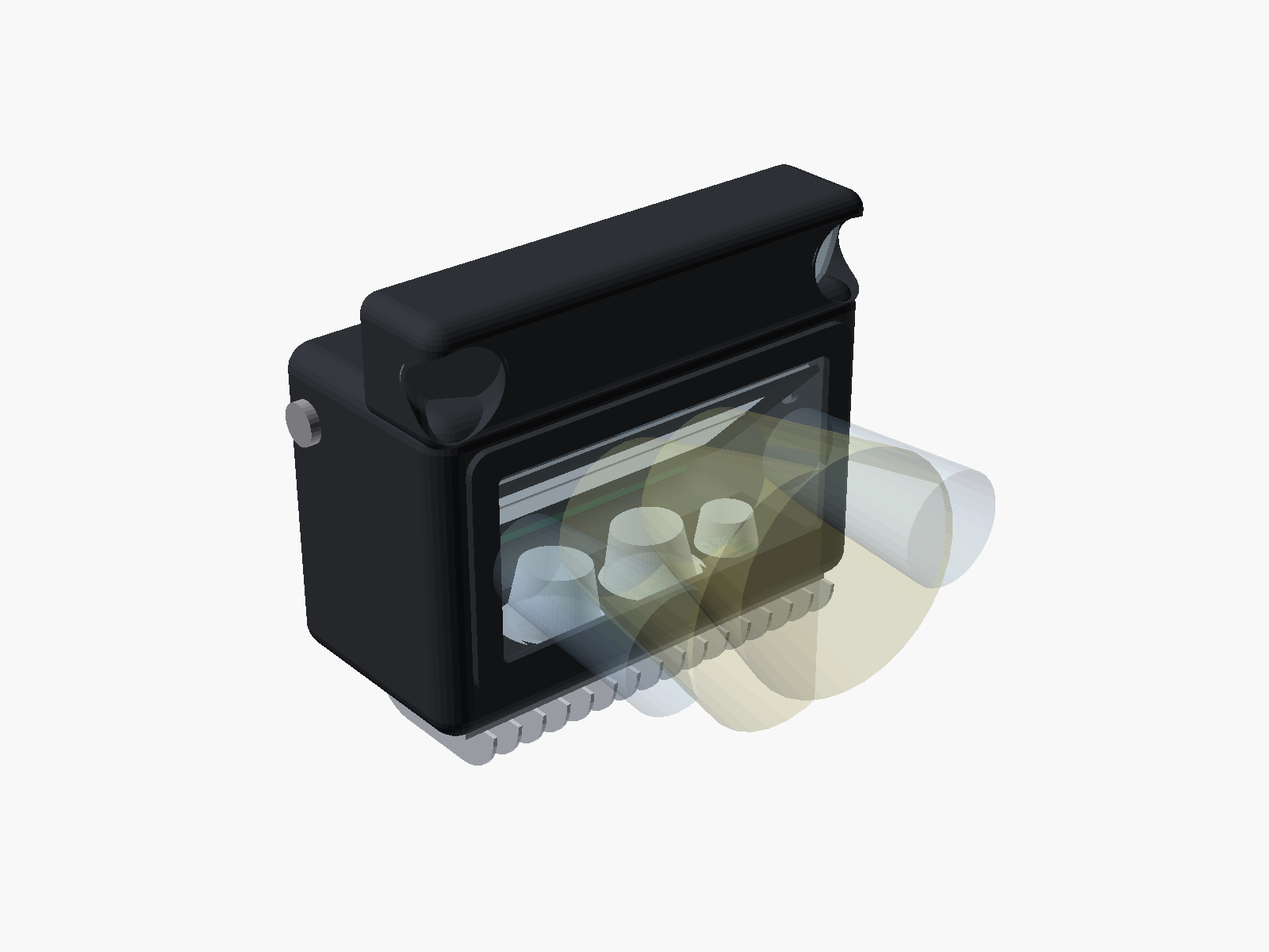
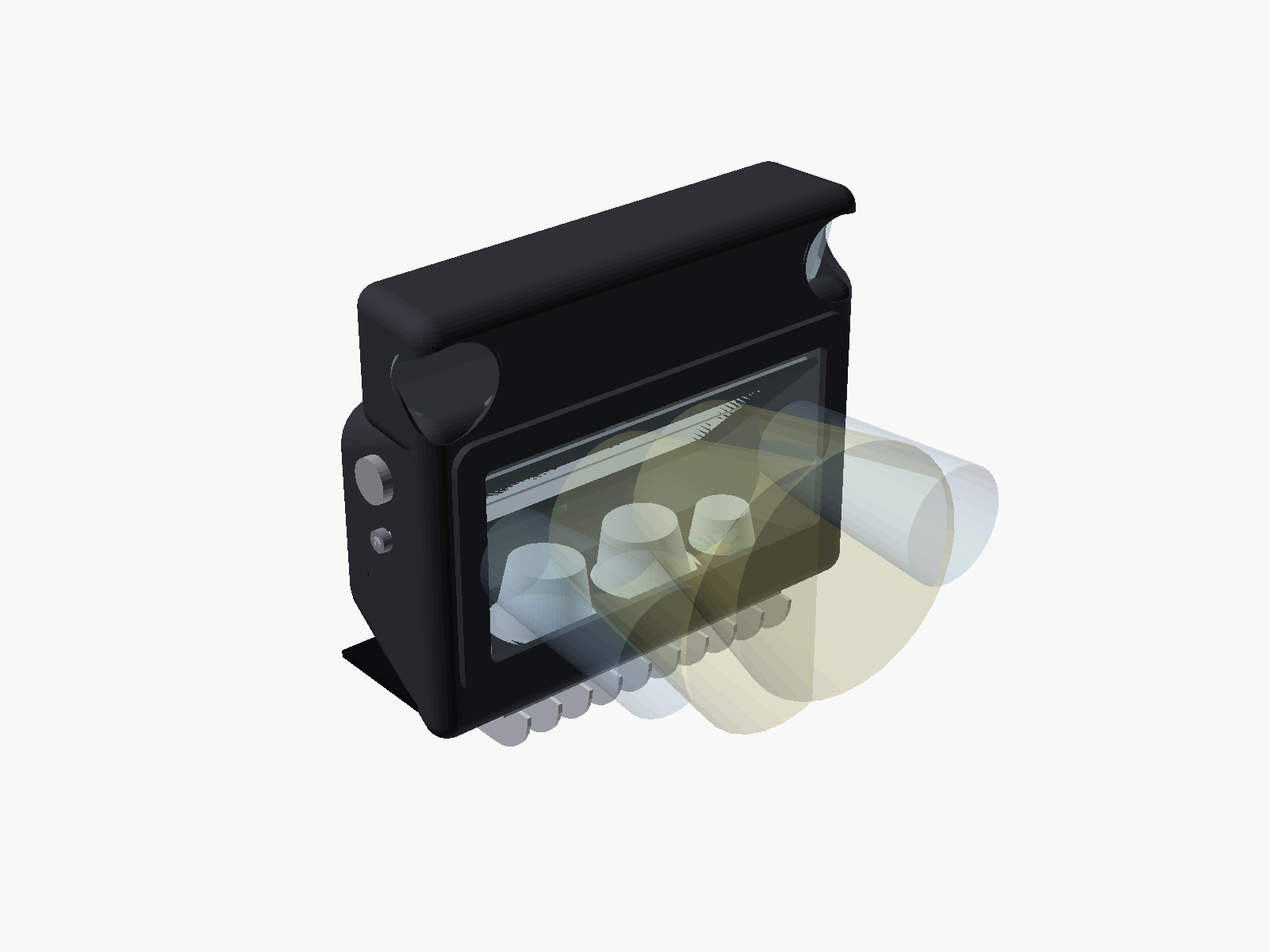
Layout v3: aerodynamic shape, lean package, 400 g limit
Owner's decisions, 2026-11-21: weight limit raised from 350 g to 400 g
(lidar stays on the head, two spots kept); a more aerodynamic, less boxy
shape.

- cad: tapered body with sloping roof and soft tail, brow fairing over
  the lidar and cornering lights; 1.6 mm walls, smaller heatsink (10
  fins), 1.5 mm window; board and servo fitted inside the rounded tail
  (C-PKG-11..13); printed parts measured from exported STL volumes
- mass ~401 g with lidar (C-MASS-01 misses 400 g by ~1 g)
- design §2 explains the mirror's size; §5, §8, §10 updated; BOM:
  5 g-class servo, smaller heatsink, 1.5 mm window, M8 gland ($502 core)
- CLAUDE.md, CONTRIBUTING, README, test plan: 400 g limit

diff --git a/cad/weight.py b/cad/weight.py
@@ -1,23 +1,24 @@
 #!/usr/bin/env python3
 """Mass budget for the headlight head (test C-MASS-01).
 
-Usage: weight.py BASELINE.echo [VARIANT.echo ...]
+Usage: weight.py MODEL.echo SHELL.stl HOOD.stl
 
-Each .echo file is OpenSCAD's echo output for one configuration of
-headlight.scad (render.sh writes them). The first file is the baseline that
-C-MASS-01 judges; the others are shown for comparison. Standard library only.
+MODEL.echo is OpenSCAD's echo output for headlight.scad; SHELL.stl and
+HOOD.stl are the printed body shell and brow fairing exported from it
+(render.sh writes all three). The printed parts' mass comes from the STL
+volumes, so the shaped body is measured, not approximated. Standard library only.
 """
 import re
 import sys
 from pathlib import Path
 
-LIMIT_G = 350  # firm constraint: head with the optional lidar fitted
+LIMIT_G = 400  # firm constraint: head with the optional lidar fitted (raised from 350 g, 2026-11-21)
 
 ASA, PC, GLASS, ALU, STEEL, COPPER = 1.07, 1.20, 2.50, 2.70, 7.90, 8.90  # g/cm³
 CM3 = 1e-3
 
 
-def read(path):
+def read_echo(path):
     text = Path(path).read_text()
     pkg = next(l for l in text.splitlines() if '"PKG ' in l)
     mass = next(l for l in text.splitlines() if '"MASS ' in l)
@@ -25,12 +26,24 @@ def read(path):
     return name, {k: float(v) for k, v in re.findall(r"(\w+)=([\d.]+)", mass)}
 
 
-def budget(g):
+def stl_volume_mm3(path):
+    """Volume of a closed ASCII STL mesh (OpenSCAD's default export), by signed tetrahedra."""
+    verts = [tuple(map(float, l.split()[1:4])) for l in Path(path).read_text().splitlines()
+             if l.strip().startswith("vertex")]
+    vol = 0.0
+    for i in range(0, len(verts) - 2, 3):
+        (ax, ay, az), (bx, by, bz), (cx, cy, cz) = verts[i:i + 3]
+        vol += ax * (by * cz - bz * cy) - ay * (bx * cz - bz * cx) + az * (bx * cy - by * cx)
+    return abs(vol) / 6.0
+
+
+def budget(g, shell_mm3, hood_mm3):
     n_led = g["n_fil"] + g["n_spot"]
     parts = {
         "Heatsink (aluminium, bottom)": g["hs_mm3"] * CM3 * ALU,
-        "Body shell (ASA)": g["shell_area_mm2"] * g["wall_mm"] * CM3 * ASA,
-        "Bezel, bosses, ribs (ASA)": 12,
+        "Body shell (ASA, measured)": shell_mm3 * CM3 * ASA,
+        "Brow fairing (ASA, measured)": hood_mm3 * CM3 * ASA,
+        "Bezel, bosses, ribs (ASA)": 10,
         "Window (polycarbonate)": g["window_mm3"] * CM3 * PC,
         "Mirror (front-surface glass)": g["mirror_mm3"] * CM3 * GLASS,
         "Mirror cradle, shaft, bearings": 5 + 3.14159 * 1.5**2 * g["shaft_mm"] * CM3 * STEEL + 0.6,
@@ -38,16 +51,15 @@ def budget(g):
         "LEDs on 20 mm copper stars": n_led * 3.14159 * 10**2 * 1.6 * CM3 * COPPER,
         "FILIPPA-STVZO optics": g["n_fil"] * 6.3,
         "Carclo 10003 + 10734 holders": g["n_spot"] * 3.5,
-        "Servo ES08MD II + linkage": 12 + 2,
+        "FILIPPA toe-out wedges (aluminium)": g["n_fil"] * 2,
+        "Servo (5 g class) + linkage": 5 + 2,
         "XIAO, IMU, cable": 3 + 1.5 + 1,
         "BuckBlocks, Pololu 5 V": (2 if g["n_spot"] else 1) * 5 + 3,
         "Protoboard, passives, wiring": 15 + 5,
-        "Screws + heat-set inserts": 14,
+        "Screws + heat-set inserts": 9,
         "O-rings, window gasket": g["seal_mm"] * 3.14159 * 1.0**2 * CM3 * 1.2 + 2,
         "Mount boss + 1/4\"-20 insert": 10,
-        "Gland, vent, button, desiccant": 4 + 2 + 3 + 2,
-        "FILIPPA toe-out wedges (aluminium)": g["n_fil"] * 2,
-        "Top brow (ASA)": g["brow_area_mm2"] * g["wall_mm"] * CM3 * ASA,
+        "Gland (M8), vent, button, desiccant": 2 + 2 + 3 + 2,
         "2x cornering light (LED, optic, plate, window)": 2 * (4.5 + 3.5 + 3 + 1.5),
         "2x cornering driver (700 mA buck)": 2 * 2,
     }
@@ -57,21 +69,20 @@ def budget(g):
     return parts
 
 
-def main(paths):
-    configs = [read(p) for p in paths]
-    budgets = [budget(g) for _, g in configs]
-    names = list(dict.fromkeys(k for b in budgets for k in b))
-    head = f"{'Part':34}" + "".join(f"{n:>16}" for n, _ in configs)
-    print(head)
-    for k in names:
-        print(f"{k:34}" + "".join(f"{b.get(k, 0):16.0f}" for b in budgets))
-    totals = [sum(b.values()) for b in budgets]
-    print(f"{'Total':34}" + "".join(f"{t:16.0f}" for t in totals))
-    base_name, base = configs[0]
-    ok = totals[0] <= LIMIT_G
-    print(f"C-MASS-01 {base_name}: {totals[0]:.0f} g vs {LIMIT_G} g limit: {'PASS' if ok else 'FAIL'}")
+def main(echo, shell, hood):
+    name, g = read_echo(echo)
+    parts = budget(g, stl_volume_mm3(shell), stl_volume_mm3(hood))
+    print(f"{'Part':48}{name:>14}")
+    for k, v in parts.items():
+        print(f"{k:48}{v:14.0f}")
+    total = sum(parts.values())
+    print(f"{'Total':48}{total:14.0f}")
+    ok = total <= LIMIT_G
+    print(f"C-MASS-01 {name}: {total:.0f} g vs {LIMIT_G} g limit: {'PASS' if ok else 'FAIL'}")
     return 0 if ok else 1
 
 
 if __name__ == "__main__":
-    sys.exit(main(sys.argv[1:]))
+    if len(sys.argv) != 4:
+        sys.exit(__doc__)
+    sys.exit(main(*sys.argv[1:]))

diff --git a/docs/design.md b/docs/design.md
@@ -6,7 +6,7 @@ The parts list with links is in [`../hardware/BOM.md`](../hardware/BOM.md).
 **Firm constraints** (owner's decision, 2026-11-20). Changing one needs the owner's approval:
 - Only the mirror moves. The LEDs and heatsink stay fixed.
 - External power only. The head has no battery, and PD is negotiated at the bank.
-- Material cost ≤ $450 per unit (raised from $350 on 2026-11-20) and head weight ≤ 350 g, both **with the optional lidar fitted**. The cost excludes the power bank, tools and leftover pack contents.
+- Material cost ≤ $450 per unit (raised from $350 on 2026-11-20) and head weight ≤ 400 g (raised from 350 g on 2026-11-21), both **with the optional lidar fitted**. The cost excludes the power bank, tools and leftover pack contents.
 - The lidar stays optional. Everything must work without it.
 
 ## 1. The problem
@@ -39,9 +39,15 @@ The parts list with links is in [`../hardware/BOM.md`](../hardware/BOM.md).
 **Mirror geometry:**
 - The four optics sit in a row along the pivot axis: two 20 mm spot optics and two 33 mm FILIPPA low-beam optics, about 112 mm in all. The mirror is long and thin: about **114 × 55 mm**, about 17 g in **1.1 mm** front-surface glass.
 - The mirror must be **flat**: any curvature blurs the low-beam cutoff.
+- **Why it's this size (checked 2026-11-21):** its length is the optic row (two 33 mm FILIPPA and two 20 mm spots, ~112 mm). Its width is the 33 mm low-beam column spread across a mirror tilted to 52.5° at full travel: 33 / cos 52.5° ≈ 54 mm. Alternatives looked at:
+  - A 2 × 2 optic layout gives a mirror of the same area (~70 × 90 mm), with ~2.7× the moment of inertia and a window ~28 mm taller, because the two rows reflect at different heights. No gain.
+  - Limiting steering to ±10° of beam (±5° of mirror) would trim ~3 mm of width and a few millimetres of window and body. Only worth it if ride logs show the pitch stays within ±10°.
+  - Cutting the mirror narrower at the spot ends (20 mm columns) saves ~3 g of glass but complicates the cradle.
+  - The real FILIPPA output spreads a little between the optic and the mirror, so the mirror may need to be slightly larger, not smaller. B-OPT-02 checks it.
 - It rotates about its long axis, which gives it a very small moment of inertia.
 - Use a **front-surface** mirror (enhanced aluminium, R > 95% across the visible range). A normal back-silvered mirror produces ghost beams and absorbs light.
 - The pivot passes through the mirror's **centre of mass**. Bumps and acceleration then create no torque, and the servo only holds position.
+- **Servo:** a 5 g-class digital micro servo (lean package); the 12 g EMAX ES08MD II is the fallback. The packaging model keeps the larger servo's envelope.
 - **Pivot:** 2× MR63ZZ bearings on a 3 mm stainless shaft, pressed into printed bosses with CA glue.
 - **Linkage:** a pushrod at about 4:1. The servo sweeps ±30° for ±7.5° of mirror, which gives 4× the resolution and hides servo backlash. Response stays well under 50 ms.
 - **Window:** about 124 × 61 mm, 2 mm polycarbonate, so the 33 mm low beam can sweep ±15° without clipping.
@@ -217,22 +223,15 @@ Sources: [EUC forum: charging a laptop from a wheel](https://forum.electricunicy
 
 *v1 (heatsink lid on top):* everything fitted, but the head came to ~466 g, or ~556 g with the lidar pod hanging underneath.
 
-*v2 (heatsink at the bottom, fins fore-aft), with these weight savings:* 2.0 mm walls (the design's minimum), 2 mm window, 1.1 mm mirror, a heatsink only under the optic zone and sized for moving air (§8), the window 3 mm closer to the mirror, the lidar in a pocket in the top cover, the mount boss on the back, and a 12 mm sealed button instead of the 16 mm metal one.
-- **Size (rounded, 8 mm edges):** body about 143 × 71 × 90 mm; about 107 mm tall with the fins; about 151 mm with the lidar pocket on top. Rounding adds about 15 mm of length, because the window has to sit on the flat part of the front, and about 15 g.
-- **Fit:** checks C-PKG-01 to C-PKG-08 pass.
-- **Mass by configuration:**
+*v2 (heatsink at the bottom, fins fore-aft):* everything fits, and two rounds of changes brought the mass down.
 
-| Configuration | Mass | Within 350 g? |
-|---|---|---|
-| 2 FILIPPA + 2 spot, lidar on the head (current design) | ~463 g (~448 g square-edged) | No |
-| 2 FILIPPA + 1 spot, lidar on the head | ~435 g | No |
-| 2 FILIPPA + 2 spot, lidar mounted separately on the wheel | ~386 g | No |
-| 2 FILIPPA + 1 spot, lidar mounted separately on the wheel | ~358 g (~341 g square-edged) | No |
-| 1 FILIPPA + 1 spot, lidar on the head | ~368 g (~348 g square-edged) | No |
-
-- The heaviest items are still the printed body (~105 g) and the heatsink (~79 g). A body with one FILIPPA is about 52 mm shorter because the optic row shrinks; the window stays as wide as the FILIPPA's 32° spread needs.
-- **Cornering lights and toe-out** (added later the same day) put both lights in a rounded brow across the top front, with the lidar in the middle when it's fitted. They add about 54 g: ~463 → **~517 g** with the lidar on the head, ~451 g with it on the wheel. With one FILIPPA and one spot, the brow is too short for the lidar and both lights (C-PKG-09).
-- **Lidar off the head:** the IMU in the head still gives the lidar's true depression angle if both are fixed rigidly to the same part of the wheel, so the lidar can live in its own small housing on the shell, joined by a cable.
+*v3 (aerodynamic and lean, 2026-11-21).* The owner raised the weight limit to 400 g, kept the lidar on the head and both spots, and asked for a less boxy, more aerodynamic shape:
+- **Shape:** a rounded front (6 mm edges) that **tapers 14 mm narrower each side toward the back**, a **roof that slopes 20 mm down** to a soft 14 mm-radius tail, and a **brow fairing** over the lidar and cornering lights that blends 30 mm back into the roof. The window, lidar lenses and cornering windows sit on the flat front; everything behind them is shaped for the airflow. The mount boss stays on the back.
+- **Lean package:** 1.6 mm walls (4 perimeters, below the earlier 2 mm minimum, so the leak and thermal-cycling tests matter more), a smaller heatsink (~96 × 45 mm, 2.5 mm base, 10 fins, §8), 1.5 mm window, a 5 g-class micro servo, fewer screws, an M8 gland.
+- **Size:** body about 139 × 70 × 88 mm, about 149 mm tall with the fins and brow.
+- **Fit:** checks C-PKG-01 to C-PKG-13 pass, including the electronics board (~60 × 52 mm, tighter than before) and servo fitting under the sloping roof and inside the rounded, tapered tail.
+- **Mass:** the printed body and brow are now **measured from the model's geometry** (STL volumes), not approximated: body ~53 g, brow ~33 g. The head comes to **~401 g** with the lidar, right at the 400 g limit. The custom PCB (build-plan phase 9) should take off another ~20 g.
+- Further options if needed: foaming lightweight ASA for the brow and other non-sealing parts (~−15 g, material to verify), a LightWare LW20/C lidar (~−45 g but ~$187 more, over the cost limit).
 
 ## 6. Mounting
 
@@ -280,10 +279,10 @@ Sources: [EUC forum: charging a laptop from a wheel](https://forum.electricunicy
 ## 8. Thermal
 
 - **Heat:** about 12 W at normal output, roughly 65% of LED electrical power.
-- **Heatsink (layout v2):** about 128 × 45 mm under the optics, fins fore-aft so riding air flows along them. Sized for moving air, with firmware derating when parked:
-  - About 0.9 K/W at 25 km/h, so about 11 K above ambient at 12 W (flat-plate laminar estimate over 45 mm fins).
-  - About 1.6 K/W at walking pace (2 m/s), so about 19 K above ambient.
-  - About 7–8 K/W in still air with the fins pointing down, which is too hot at full power. Firmware already dims to 20% after 2 min parked (about 2.4 W, ~18 K rise), and the heatsink's ~70 J/K of thermal mass gives about 1 min at full power before it warms by 10 K.
+- **Heatsink (layout v3):** about 96 × 45 mm under the optics, 2.5 mm base, 10 fins 1.2 × 14 mm running fore-aft so riding air flows along them. Sized for moving air, with firmware derating when parked:
+  - About 1.4 K/W at 25 km/h, so about 16 K above ambient at 12 W (flat-plate laminar estimate over 45 mm fins).
+  - About 2.5 K/W at walking pace (2 m/s), so about 30 K above ambient. On a hot day that reaches the 60 °C start of derating, so the spot may dim slightly at walking pace.
+  - About 10 K/W in still air with the fins pointing down, which is too hot at full power. Firmware already dims to 20% after 2 min parked (about 2.4 W, ~24 K rise). The heatsink's ~44 J/K of thermal mass gives about 40 s at full power before it warms by 10 K.
   - Verify in B-THM-01, with airflow along the fins.
 - **Firmware derating** (thresholds in `firmware-spec.md`):
   - Spot dims before flood.
@@ -333,7 +332,7 @@ Sources: [EUC forum: charging a laptop from a wheel](https://forum.electricunicy
 - [ ] P6KE27A clamps at ~37.5 V, above the BuckBlock's 32 V maximum. Low risk with a 20 V bank, but a lower-clamp TVS would cover it.
 - [x] Cost over the limit: about $290 core + $98 lidar ≈ $388, against a $350 ceiling. Resolved 2026-11-20: the owner raised the limit to $450, so no parts change.
 - [x] **The flood has no cutoff.** Resolved 2026-11-21: the owner chose two LEDiL FILIPPA-STVZO cutoff optics with XP-L HI as the low beam (§3). A shield or masked mirror edge was rejected because a TIR beam isn't an image, so blocking part of it only dims it without making a sharp edge.
-- [ ] **Head weight is over 350 g.** Layout v2 brought it from ~556 g to ~448 g with the lidar on the head; the rounded exterior adds ~15 g and the cornering lights with toe-out ~54 g, for **~517 g** (~451 g with the lidar on the wheel). Needs the owner's decision: lighter configuration, smaller edge radius, or a higher limit. (2026-11-21)
+- [ ] **Head weight is at the 400 g limit** (raised from 350 g, owner, 2026-11-21): ~401 g with the lidar after the aerodynamic, lean v3 shape, with no margin. The custom PCB should add ~20 g of margin; the part masses are estimates until weighed (E-MNT-01).
 - [ ] Heatsink sized for moving air (§8): confirm the riding temperature and the parked derating on the bench (B-THM-01).
 - [ ] FILIPPA with XP-L HI: focus height, cutoff sharpness and cutoff orientation are not in LEDiL's data. Bench tests B-OPT-05 and B-OPT-06.
 - [ ] Larger mirror (115 × 55 mm, about 5× the moment of inertia): does the servo still settle in under 50 ms (B-MIR-01)?

diff --git a/hardware/BOM.md b/hardware/BOM.md
@@ -58,29 +58,29 @@ Prices: approximate USD street prices, Nov 2026. **Check the live pages before o
 | Pivot bearings | MR63ZZ (3×6×2.5 mm), pack of 10 | 1 | 8.00 | 8.00 | [search](https://www.amazon.com/s?k=MR63ZZ+bearing) |  |
 | Pivot shaft | 3 mm stainless steel rod, 100 mm | 1 | 6.00 | 6.00 | [search](https://www.amazon.com/s?k=3mm+stainless+steel+rod+100mm) |  |
 | Linkage | RC pushrod set: 1.2 mm Z-bend wire + clevis / EZ connector | 1 | 7.00 | 7.00 | [search](https://www.amazon.com/s?k=rc+pushrod+clevis+kit+1.2mm) | Gives the 4:1 lever ratio |
-| Servo | EMAX ES08MD II, digital, metal gear, 12–13 g | 1 | 14.00 | 14.00 | [link](https://www.readymaderc.com/products/details/emax-es08mdii-12g-digital-metal-gear-servo) | Also AMain Hobbies, RaceDayQuads |
-| Heatsink (= floor) | Finned aluminium heatsink ~128×45 mm, ~3 mm base, ~14 mm fins, fins running fore-aft | 1 | 9.00 | 9.00 | [search](https://www.amazon.com/s?k=aluminum+heatsink+extrusion+50mm+wide) | Cut from extrusion; LED stars screw to the flat side; drill/tap M3. Fins must run front-to-back |
+| Servo | Digital micro servo, ~5 g class, metal gears preferred, ≥ 0.8 kg·cm | 1 | 10.00 | 10.00 | [search](https://www.amazon.com/s?k=5g+digital+micro+servo+metal+gear) | Lean package (2026-11-21): replaces the 12 g EMAX ES08MD II, which stays the fallback if B-MIR-01/02 show too much jitter. Price is an estimate |
+| Heatsink (= floor) | Finned aluminium heatsink ~96×45 mm, ~2.5 mm base, 10 fins ~14 mm, fins running fore-aft | 1 | 9.00 | 9.00 | [search](https://www.amazon.com/s?k=aluminum+heatsink+extrusion+50mm+wide) | Cut from extrusion; LED stars screw to the flat side; drill/tap M3. Fins must run front-to-back |
 | Thermal paste | Arctic MX-4 (or similar) | 1 | 7.00 | 7.00 | [search](https://www.amazon.com/s?k=Arctic+MX-4) | Skip if you have it |
-| **Subtotal** | | | | **136.24** | | |
+| **Subtotal** | | | | **132.24** | | |
 
 ## D. Housing & sealing
 
 | Item | Part / spec | Qty | Unit $ | Ext $ | Source | Notes |
 |---|---|---|---|---|---|---|
 | Filament | ASA 1 kg (Polymaker / Prusament) – ~150 g used | 1 | 25.00 | 25.00 | [search](https://www.amazon.com/s?k=ASA+filament+1kg) | Black interior parts can be same spool |
-| Window | Polycarbonate sheet 2–3 mm (or 3 mm tempered glass), 2 mm, cut to ~124×61 mm | 1 | 10.00 | 10.00 | [search](https://www.amazon.com/s?k=polycarbonate+sheet+3mm+8x10) |  |
+| Window | Polycarbonate sheet 1.5 mm, cut to ~136×61 mm | 1 | 10.00 | 10.00 | [search](https://www.amazon.com/s?k=polycarbonate+sheet+3mm+8x10) |  |
 | Anti-fog | Rain-X Anti-Fog (inside of window) | 1 | 6.00 | 6.00 | [search](https://www.amazon.com/s?k=Rain-X+anti+fog) |  |
 | O-ring | Silicone O-ring cord, 2 mm, 2 m | 1 | 8.00 | 8.00 | [search](https://www.amazon.com/s?k=silicone+o-ring+cord+2mm) | Glue the ends with CA glue |
 | Heat-set inserts | CNC Kitchen M3 short (M3×3.0), 100 pcs | 1 | 10.00 | 10.00 | [link](https://www.3djake.com/cnc-kitchen/threaded-inserts-m3-short) | Also at prusa3d.com |
 | Screws | M3 A2 stainless assortment (6–16 mm, button head) | 1 | 10.00 | 10.00 | [search](https://www.amazon.com/s?k=M3+stainless+button+head+screw+assortment) |  |
 | Mount insert | 1/4"-20 brass heat-set insert (or captive 1/4"-20 nut) | 1 | 6.00 | 6.00 | [search](https://www.amazon.com/s?k=1/4-20+heat+set+insert+brass) | Main structural anchor |
 | Pressure vent | Amphenol LTW VT-BPM08BK-NO8001, M8 ePTFE vent, IP68 | 1 | 4.00 | 4.00 | [link](https://www.masterelectronics.com/en/amphenol-ltw/vtbpm08bkno8001-64689643.html) | Also search the same part number at Mouser/DigiKey |
-| Cable gland | M12 nylon IP68 gland, 3–6.5 mm cable | 1 | 5.00 | 5.00 | [search](https://www.amazon.com/s?k=M12+cable+gland+IP68+3-6.5mm) | Only if not using a panel connector |
+| Cable gland | M8 nylon IP68 gland, 2–5 mm cable | 1 | 4.00 | 4.00 | [search](https://www.amazon.com/s?k=M8+cable+gland+IP68) | Only if not using a panel connector |
 | Button | Adafruit Rugged Metal Pushbutton, 16 mm, LED ring, momentary (#560 green / #481 blue) | 1 | 4.95 | 4.95 | [link](https://www.adafruit.com/product/560) | Includes rubber gasket; 6 V LED – run from 5 V via 2N3904 |
 | Desiccant | 1–2 g silica gel packs | 1 | 6.00 | 6.00 | [search](https://www.amazon.com/s?k=silica+gel+packets+1+gram) |  |
 | Sealant | Sensor-safe neutral-cure RTV (e.g. Permatex Ultra Black 82180) | 1 | 8.00 | 8.00 | [search](https://www.amazon.com/s?k=Permatex+82180) | Do NOT use acetoxy (vinegar-smell) silicone near the mirror/LEDs |
 | Surface sealer (optional) | Smooth-On XTC-3D epoxy coating | 1 | 25.00 | 25.00 | [search](https://www.amazon.com/s?k=XTC-3D) | Skip if acetone-vapour smoothing the ASA |
-| **Subtotal** | | | | **127.95** | | |
+| **Subtotal** | | | | **126.95** | | |
 
 ## E. Mounting
 
@@ -146,12 +146,12 @@ Prices: approximate USD street prices, Nov 2026. **Check the live pages before o
 
 | | USD |
 |---|---|
-| Core build, cash outlay (sections A–G, excluding the 2 optional items) | **507** |
+| Core build, cash outlay (sections A–G, excluding the 2 optional items) | **502** |
 | Optional extras (XTC-3D coating, magnetic breakaway) | +35 |
 | Road-slope lidar (section H) | +98 |
 | Subtract if you already own a power bank, filament, resistor kit, wire, paste | −100 |
 | Packs and spools left over after one unit (inserts, screws, O-ring cord, bearings, mounts…) | ≈ 129 |
-| **Material actually used per unit, without lidar or power bank** | **≈ 330** |
+| **Material actually used per unit, without lidar or power bank** | **≈ 325** |
 
 Tools not included: 3D printer, soldering iron with a heat-set insert tip, multimeter, glass cutter, drill and M3 tap.
 

diff --git a/docs/test-plan.md b/docs/test-plan.md
@@ -140,12 +140,15 @@ Each check's message in `cad/headlight.scad` or `cad/weight.py` starts with its 
 | C-PKG-03 | The mirror stays out of the electronics slot at full tilt | At least 1 mm | Pass (v2), 2026-11-21 |
 | C-PKG-04 | The window aperture stays above the floor, and the mirror clears the optics at full tilt | At least 1 mm each | Pass (v2), 2026-11-21 |
 | C-PKG-05 | Every beam fits the window width (FWTM spread, ±15° steering) | Beam reach ≤ half the inner length | Pass (v2), 2026-11-21 |
-| C-PKG-06 | The servo fits the back slot | Servo width ≤ slot depth − 2 mm | Pass (v2), 2026-11-21 |
+| C-PKG-06 | The servo fits the back slot, set 4 mm in from the back wall | Servo front ≤ slot depth − 2 mm | Pass (v2), 2026-11-21 |
 | C-PKG-07 | The bottom heatsink fits inside the floor | Heatsink depth ≤ inner depth | Pass (v2), 2026-11-21 |
 | C-PKG-08 | The window and bezel stay on the flat front, clear of the rounded bottom edge | Bezel bottom ≥ edge radius above the floor | Pass (v2), 2026-11-21 |
 | C-PKG-09 | The cornering lights clear the lidar in the top brow | No overlap | Pass (2 FILIPPA + 2 spot); fails with 1 FILIPPA + 1 spot, 2026-11-21 |
 | C-PKG-10 | The cornering lights stay within the end of the body | At most 2 mm past the end | Pass, 2026-11-21 |
-| C-MASS-01 | Head mass of the current configuration (2 FILIPPA + 2 spot, lidar on the head), from model geometry and part masses | ≤ 350 g | **Fail: ~517 g** with cornering lights (v2 rounded; ~463 g before them, ~556 g in v1), 2026-11-21 |
+| C-PKG-11 | The sloping roof leaves the electronics board at least 45 mm tall | Board height ≥ 45 mm | Pass (v3), 2026-11-21 |
+| C-PKG-12 | The servo fits inside the rounded, tapered tail | Servo inside the tail's inner wall | Pass (v3), 2026-11-21 |
+| C-PKG-13 | The electronics board fits the flat part of the tail | Board width ≥ 55 mm | Pass (v3), 2026-11-21 |
+| C-MASS-01 | Head mass with the lidar, printed parts measured from the model's STL volumes, bought parts from datasheets | ≤ 400 g | See `cad/renders/checks.txt`; ~401 g in v3, 2026-11-21 |
 
 ## Bench tests (`B-`)
 
@@ -211,7 +214,7 @@ Each check's message in `cad/headlight.scad` or `cad/weight.py` starts with its 
 | E-SEAL-01 | Empty housing submerged with a tissue inside | Tissue dry | – |
 | E-SEAL-02 | Repeat E-SEAL-01 after 10 hot–cold cycles | Tissue dry | – |
 | E-SEAL-03 | Window fogging after cooling from hot, with the vent and desiccant fitted | No fog | – |
-| E-MNT-01 | Head weight, fully assembled with the lidar | ≤ 350 g | – |
+| E-MNT-01 | Head weight, fully assembled with the lidar | ≤ 400 g | – |
 | E-MNT-02 | Pull and shake test on each mount option | Mount holds; leash catches the head if it doesn't | – |
 
 ## Ride tests (`R-`)

diff --git a/cad/README.md b/cad/README.md
@@ -10,9 +10,9 @@ Needs [OpenSCAD](https://openscad.org) (2021.01 or newer) and Python 3 (standard
 cad/render.sh
 ```
 
-It renders the views below to `renders/`, runs the clearance checks (C-PKG-01 to 10) and the mass budget (C-MASS-01, `weight.py`, with lighter configurations for comparison), and writes the results to `renders/checks.txt` and `renders/mass.txt`. The exit status is non-zero if any check fails. Set `OPENSCAD` if the binary isn't on your PATH.
+It renders the views below to `renders/`, runs the clearance checks (C-PKG-01 to 13) and the mass budget (C-MASS-01, `weight.py`, which measures the printed shell and brow from exported STL volumes), and writes the results to `renders/checks.txt` and `renders/mass.txt`. The exit status is non-zero if any check fails. Set `OPENSCAD` if the binary isn't on your PATH.
 
-To explore, open `headlight.scad` in OpenSCAD and change `view` (`assembly`, `cutaway`, `exploded`, `front`, `under`, `wheel`), `tilt` (−7.5 to 7.5), `n_fil`, `n_spot`, `lidar_on_head` and `show_beams`.
+To explore, open `headlight.scad` in OpenSCAD and change `view` (`assembly`, `cutaway`, `exploded`, `front`, `under`, `wheel`), `tilt` (−7.5 to 7.5), `n_fil`, `n_spot`, `lidar_on_head`, `show_beams`, and the shape parameters `taper`, `roof_drop`, `r_tail` and `hood_tail`.
 
 ## Views
 
@@ -24,8 +24,10 @@ To explore, open `headlight.scad` in OpenSCAD and change `view` (`assembly`, `cu
 | `cutaway.png`, `cutaway-up.png`, `cutaway-down.png` | Section through the middle at nominal and full mirror tilt |
 | `exploded.png` | Heatsink, optics, mirror, electronics, body, window, lidar pod |
 | `no-lidar.png` | Assembled head without the lidar |
+| `side.png`, `top.png` | Side and top profiles, orthographic: the tapered, sloping v3 shape |
+| `rear-quarter.png` | From behind: tail, mount boss, gland and vent |
 | `on-wheel.png` | On a generic 16" wheel for scale (not any real model) |
 
 ## Results (2026-11-21)
 
-Layout v2 (heatsink at the bottom, fins fore-aft, mount on the back): all clearance checks pass. The current configuration (2 FILIPPA + 2 spot, lidar on the head) is about 517 g with the rounded exterior and the cornering lights, against the 350 g limit, so C-MASS-01 fails. `renders/mass.txt` compares lighter configurations; none fits. See design.md §5 "Packaging study".
+Layout v3 (aerodynamic, lean): heatsink at the bottom with fins fore-aft, mount on the back, a tapered body with a sloping roof and a brow fairing for the lidar and cornering lights. All clearance checks pass. The head is about 401 g with the lidar against the 400 g limit; see `renders/mass.txt` and design.md §5 "Packaging study".

diff --git a/docs/build-plan.md b/docs/build-plan.md
@@ -11,7 +11,7 @@ Phases in order. Work on the current phase only, and tick each item when it pass
 - [x] `CLAUDE.md`, build plan, test plan, changelog
 - [x] `CONTRIBUTING.md` and `SECURITY.md`
 - [x] Branch protection on `main` (signed commits, PR required)
-- [x] Material cost within the limit: ~$388 with the lidar (~$395 after the FILIPPA low beam), under the $450 limit set on 2026-11-20
+- [x] Material cost within the limit: ~$388 with the lidar (~$423 after the FILIPPA low beam, cornering lights and lean package), under the $450 limit set on 2026-11-20
 
 ## Phase 1: Packaging study
 
@@ -22,7 +22,8 @@ Goal: a parametric model and renders of the whole head prove it fits, sweeps and
 - [x] Mass budget from part masses and printed volumes (C-MASS-01): ~556 g with the lidar, over the limit
 - [x] Renders: three-quarter, front, side cut-away, exploded, on a generic wheel for scale
 - [x] Layout v2: heatsink at the bottom, fins fore-aft, mount on the back, weight savings (owner's requirements, 2026-11-21)
-- [ ] Owner decision on the weight: a configuration within 350 g, or a higher limit
+- [x] Owner decision on the weight: limit raised to 400 g, lidar stays on the head, two spots kept (2026-11-21)
+- [x] Layout v3: aerodynamic tapered shape and lean package; printed parts measured from the model
 - [ ] Owner review of the renders; update the design doc with what the model shows
 
 ## Phase 2: Firmware core on the bench

diff --git a/CHANGELOG.md b/CHANGELOG.md
@@ -14,6 +14,7 @@ All notable changes to this project are listed here. The format follows [Keep a 
 - `CONTRIBUTING.md` and `SECURITY.md` (private reporting for safety faults as well as security issues).
 
 ### Changed
+- Weight limit raised from 350 g to 400 g with the lidar (owner, 2026-11-21). Layout v3: aerodynamic shape (tapered, sloping roof, soft tail, brow fairing) and lean package (1.6 mm walls, smaller heatsink, 1.5 mm window, 5 g servo, fewer screws, M8 gland); printed parts now measured from STL volumes; ~401 g. Design §2 explains the mirror's size.
 - Layout v2 (owner's requirements, 2026-11-21): heatsink at the bottom with fins fore-aft, LEDs facing up, mount on the back (never the top), rounded exterior (8 mm edges), lidar in a top pocket, lighter walls, window and mirror. Mass ~556 → ~463 g with the lidar (~448 g before rounding); configurations compared in design §5. Design §2 adds how cars and motorcycles level their beams.
 - Low beam: two LEDiL FILIPPA-STVZO cutoff optics with XP-L HI replace the Nichia 519A + Carclo elliptical flood (owner, 2026-11-21). Larger mirror, heatsink and window; BOM, calibration step D and tests B-OPT-05 to B-OPT-07 updated; B-OPT-01 retired. Weight estimate now over the 350 g limit with lidar (open question).
 - design.md §3: beam estimate (beam angles, peak intensity, throw) and a note that the flood has no cutoff; §10 open question; test B-OPT-04.

diff --git a/CLAUDE.md b/CLAUDE.md
@@ -12,8 +12,8 @@ The owner decided these (2026-11-20). Ask before trading one away.
 
 - **Mirror steering.** The LEDs and heatsink never move. Only the mirror tilts to steer the beam.
 - **External power only.** The head has no battery. USB-C PD is negotiated at the power bank, in its pouch, and only plain DC reaches the head.
-- **Material cost ≤ $450 per unit, with the optional lidar fitted** (raised from $350 on 2026-11-20). This excludes the power bank, tools, and packs left over after one unit. The current estimate is about $395.
-- **Head weight ≤ 350 g, with the optional lidar fitted.**
+- **Material cost ≤ $450 per unit, with the optional lidar fitted** (raised from $350 on 2026-11-20). This excludes the power bank, tools, and packs left over after one unit. The current estimate is about $423.
+- **Head weight ≤ 400 g, with the optional lidar fitted** (raised from 350 g on 2026-11-21).
 - **The lidar stays optional.** The firmware and housing must work fully without it.
 - **No personal data in the repository:** no real names, hostnames, accounts or locations in code, docs, tests or commit messages. Personal build or ride notes go in `*.local.md`, which git ignores. The one approved exception is the repository's GitHub handle, in repository links and `CODEOWNERS`.
 

diff --git a/README.md b/README.md
@@ -54,9 +54,9 @@ Side view of the head (layout v2):
 | Low beam (cutoff, 4° toe-out) at 10 m | ~62 lux | ~81 lux |
 | Input power | ~21 W | ~30 W |
 | Runtime on a 20 Ah bank (~50 Wh usable at 15 V) | ~2.4 h | ~1.7 h |
-| Head weight (limit: 350 g with lidar) | ~451 g, ~517 g with lidar on the head (packaging study v2, with cornering lights): over the limit, see design §10 | |
-| Head size | ~143 × 71 × 107 mm, rounded (+ ~44 mm lidar pocket on top) | |
-| Material cost per unit (limit: $450 with lidar) | ~$330 + power bank (+ ~$98 lidar) | |
+| Head weight (limit: 400 g with lidar) | ~401 g with lidar (packaging study v3, measured shell): at the limit, see design §10 | |
+| Head size | ~139 × 70 × 149 mm with brow, tapered and rounded | |
+| Material cost per unit (limit: $450 with lidar) | ~$325 + power bank (+ ~$98 lidar) | |
 
 ## Repository layout
 

diff --git a/CONTRIBUTING.md b/CONTRIBUTING.md
@@ -14,7 +14,7 @@ These are the owner's decisions. A change that breaks one won't be merged withou
 
 - Only the mirror moves. The LEDs and heatsink stay fixed.
 - External power only. The head has no battery.
-- Material cost ≤ $450 per unit and head weight ≤ 350 g, both with the optional lidar fitted.
+- Material cost ≤ $450 per unit and head weight ≤ 400 g, both with the optional lidar fitted.
 - The lidar stays optional. Everything must work without it.
 
 ## Making a change
